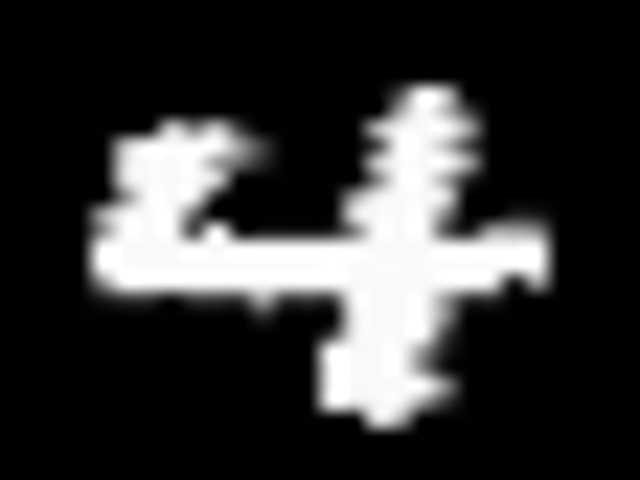
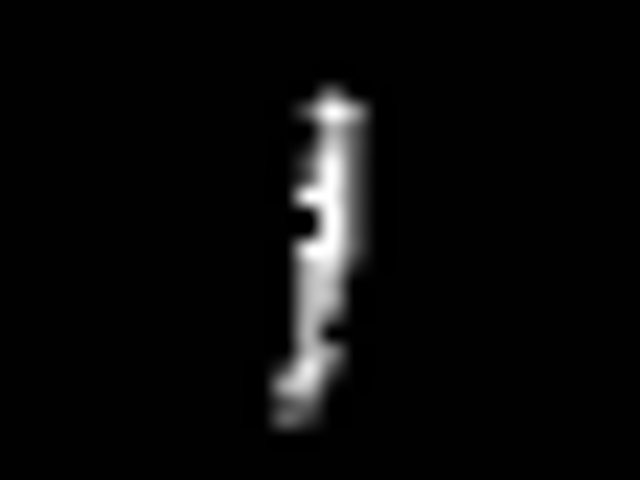
Updated the JS logic to not trigger prediction by changing the explanation method

diff --git a/frontend/index.html b/frontend/index.html
@@ -95,8 +95,8 @@ document.addEventListener('DOMContentLoaded', function () {
 
     // Add an event listener for the change event on the dropdown
     xaiMethodSelector.addEventListener('change', function () {
-        // Emit 'videoframe' event with updated XAI method
-        socket.emit('select_input', {xai_method: xaiMethodSelector.value });
+        // Emit 'explain_prediction' event with updated XAI method
+        socket.emit('explain_prediction', {xai_method: xaiMethodSelector.value });
     });
 });
 

diff --git a/heatmap_server.py b/heatmap_server.py
@@ -64,11 +64,25 @@ async def select_input(sid, data):
     # Get the image tensor based on the random index
     image_tensor, actual_label = testset[random_index]
 
-    # Get the selected XAI method from the client
-    xai_method = data.get('xai_method', 'lrp')
 
     # Get model prediction
     prediction = get_prediction(net, image_tensor)
+
+
+    # Get the image path based on the random index
+    save_rand_img(testset[random_index])
+    random_image_path = "website_img/temp_image.png"
+
+    # Send the random image path to the client
+    await sio.emit('input_image', {'data': random_image_path}, room=sid)
+    await sio.emit('prediction', {'prediction': prediction, 'actual_label': actual_label}, room=sid)
+
+
+@sio.event
+async def explain_prediction(sid, data):
+    # Get the selected XAI method from the client
+    xai_method = data.get('xai_method', 'lrp')
+
     heatmap = None
 
     # Generate heatmap based on the selected XAI method
@@ -81,14 +95,8 @@ async def select_input(sid, data):
     else:
         heatmap = None
 
-    # Get the image path based on the random index
-    save_rand_img(testset[random_index])
-    random_image_path = "website_img/temp_image.png"
     heatmap_path = "website_img/heatmap.png"
 
-    # Send the random image path to the client
-    await sio.emit('input_image', {'data': random_image_path}, room=sid)
-    await sio.emit('prediction', {'prediction': prediction, 'actual_label': actual_label}, room=sid)
     if heatmap is not None:
         await sio.emit('heatmap', {'data': heatmap}, room=sid)
 
